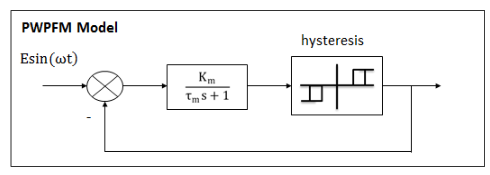
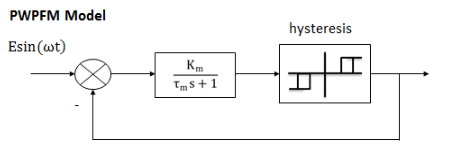
Refine slosh explanation and figure crops

Changed region(s): [[0.0594, 0.1307, 0.9214, 0.915], [0.0, 0.0523, 1.0, 0.9673]]

diff --git a/projects/isro-gnc.html b/projects/isro-gnc.html
@@ -217,13 +217,13 @@
         <section id="slosh" class="section research-section">
             <h2>Propellant Slosh Modeling and Control Stability</h2>
             <p>Propellant slosh is the oscillatory motion of liquid propellant relative to its partially filled tank.
-                During powered descent, the lander experiences high acceleration, including lateral acceleration from
-                off-vertical firing of the liquid engines. These forces excite the liquid modes; the moving propellant
-                then generates disturbance forces and torques that couple directly into attitude control.</p>
-            <p>I developed a nonlinear three-axis, multi-tank model in which each dominant liquid mode is represented
-                by a time-varying equivalent pendulum. As propellant is consumed, the model updates slosh frequency,
-                damping, center of gravity, and spacecraft inertia, and maps the pendulum motion into disturbance
-                forces and torques on the rigid body.</p>
+                During powered descent, high lander acceleration and lateral thrust from the liquid engines excite
+                these modes. The moving propellant then generates disturbance forces and torques that couple directly
+                into attitude control.</p>
+            <p>I contributed to developing a nonlinear three-axis, multi-tank slosh model in which each dominant
+                liquid mode is represented by a time-varying equivalent pendulum. As propellant is consumed, the model
+                updates slosh frequency, damping, center of gravity, and spacecraft inertia, and maps the pendulum
+                motion into disturbance forces and torques on the rigid body.</p>
 
             <div class="figure-pair isro-equation-pair slosh-model-pair">
                 <figure class="research-figure figure-narrow">
@@ -241,10 +241,9 @@
             </div>
 
             <h3>1. Linear, frozen-time stability analysis</h3>
-            <p>The rigid-body, controller, and slosh dynamics were first linearized at multiple instants of the
-                descent. These frozen-time models supported pole, frequency-response, center-of-percussion, and
-                rate-sensitivity studies, identifying the modes and flight intervals with the strongest
-                control&ndash;slosh interaction.</p>
+            <p>The lander changes continuously as propellant is consumed, so one fixed stability model is not enough.
+                We linearized the dynamics at many moments during descent and checked each snapshot. This showed when
+                slosh was most likely to amplify attitude motion or reduce control stability.</p>
             <figure class="research-figure slosh-equation-figure">
                 <img src="../assets/images/isro/slosh_torque_equation.png" class="card-image"
                     alt="Three-axis disturbance torque generated by multiple propellant slosh modes" />

diff --git a/assets/css/style.css b/assets/css/style.css
@@ -1008,16 +1008,22 @@ a.btn-link:hover {
 }
 
 .slosh-model-pair .research-figure:first-child {
-    flex: 0.7;
+    flex: 0 1 300px;
+    max-width: 300px;
+}
+
+.slosh-model-pair {
+    justify-content: center;
 }
 
 .slosh-model-pair .research-figure:last-child {
-    flex: 1.3;
+    flex: 0 1 480px;
+    max-width: 480px;
 }
 
 .slosh-equation-figure {
-    margin: 22px 0 0;
-    max-width: 560px;
+    margin: 22px auto 28px;
+    max-width: 460px;
 }
 
 .isro-mission-row {
